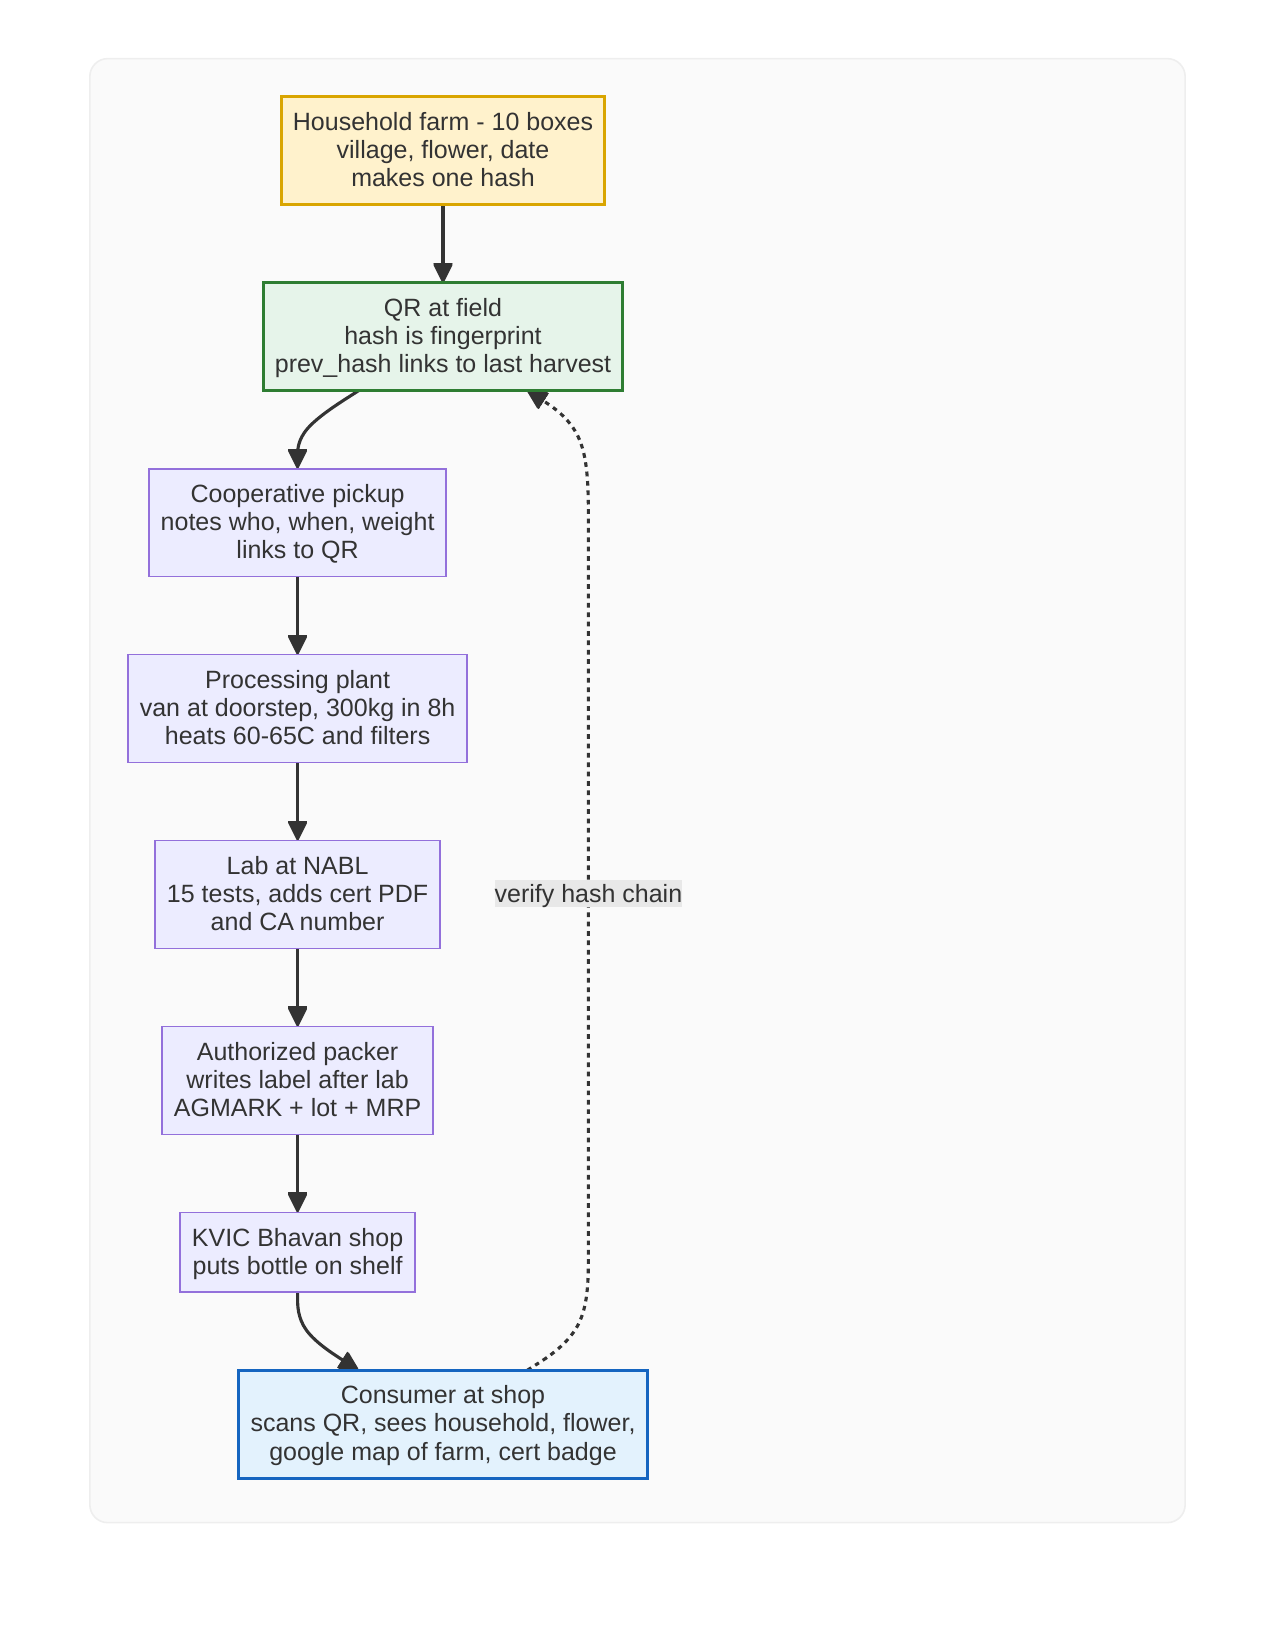
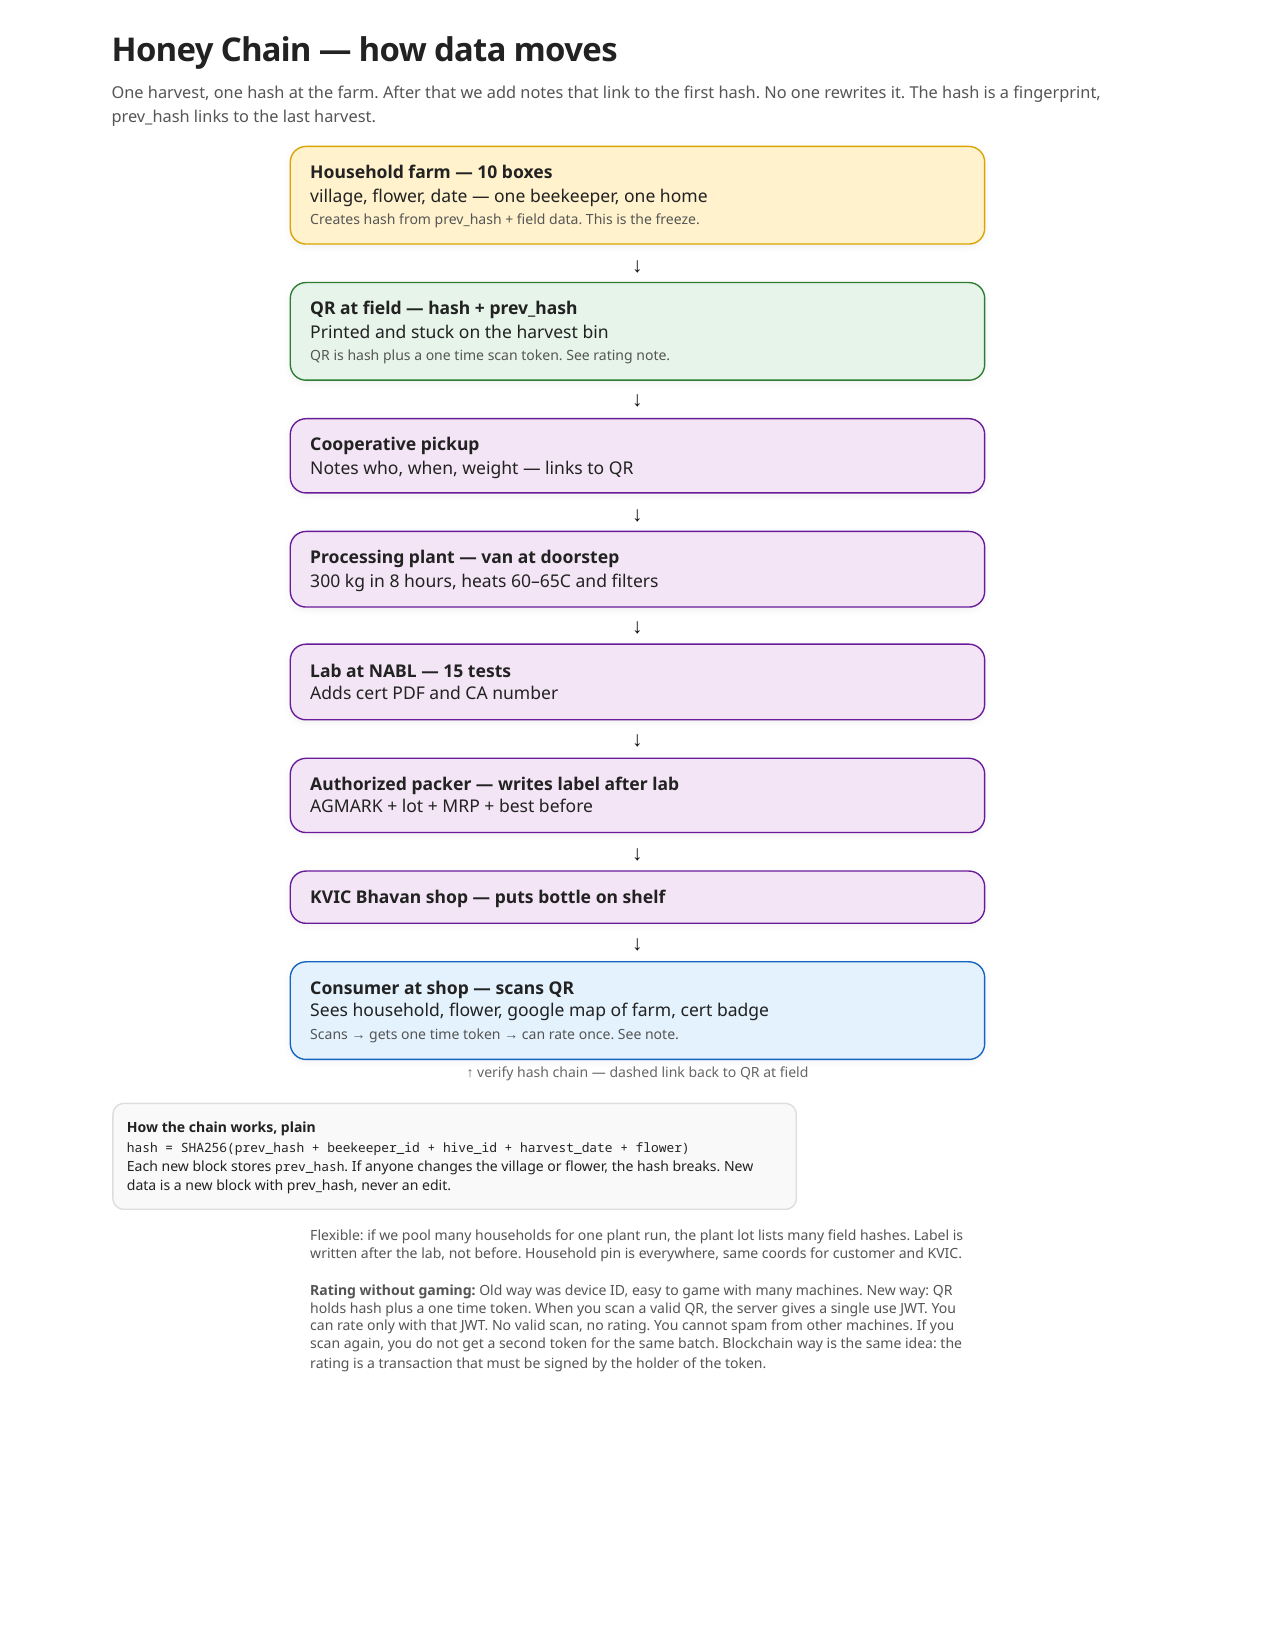
dataflow: rebuild as readable vertical HTML/CSS, larger font, single page, rating token note

Changed region(s): [[0.0918, 0.0, 0.7953, 0.8964], [0.5506, 0.5873, 0.6118, 0.6182], [0.7953, 0.0309, 0.8259, 0.0618]]

diff --git a/dataflow.html b/dataflow.html
@@ -1,48 +1,51 @@
 <!doctype html><html><head><meta charset="utf-8"><title>Data flow - Honey Chain</title>
-<script src="https://cdn.jsdelivr.net/npm/mermaid@10/dist/mermaid.min.js"></script>
-<style>body{font-family:system-ui,Arial,sans-serif;max-width:1100px;margin:0 auto;padding:20px;background:#fff;color:#222}
-h1{margin:0 0 8px} .note{color:#666;font-size:13px}
-.mermaid{border:1px solid #eee;border-radius:12px;padding:16px;background:#fafafa}
+<style>
+@page{size: 900px 1200px; margin: 0;}
+body{font-family:system-ui,Arial,sans-serif;max-width:900px;margin:0 auto;padding:24px;background:#fff;color:#222;zoom:0.85}
+h1{font-size:28px;margin:0 0 8px;letter-spacing:-0.5px}
+.sub{color:#555;font-size:14px;margin:0 0 16px;line-height:1.4}
+.flow{display:flex;flex-direction:column;align-items:center;gap:0}
+.node{width:560px;border:2px solid #333;border-radius:14px;padding:12px 16px;background:#fff;font-size:15px;line-height:1.3;box-shadow:0 2px 6px rgba(0,0,0,0.05)}
+.node.yellow{background:#fff2cc;border-color:#d9a500}
+.node.green{background:#e6f4ea;border-color:#2e7d32}
+.node.purple{background:#f3e5f5;border-color:#6a1b9a}
+.node.blue{background:#e3f2fd;border-color:#1565c0}
+.node .small{color:#555;font-size:12px;margin-top:4px}
+.arrow{font-size:18px;color:#111;margin:4px 0}
+.dots{font-size:12px;color:#666;margin:3px 0}
+.chain{margin-top:14px;padding:12px;background:#f9f9f9;border:1px solid #ddd;border-radius:10px;font-size:12px;width:560px}
+.chain code{font-size:11px}
+.note{width:560px;margin:14px auto 0;color:#555;font-size:12px;line-height:1.3}
 </style></head><body>
-<h1>Honey Chain — how data moves, with one hash link</h1>
-<p class="note">Less jargon: one harvest, one hash, one QR at the farm. After that we add notes that link to the first hash. KVIC network adds to it, no one rewrites it.</p>
-<pre class="mermaid">
-flowchart TD
-  A[Household farm - 10 boxes
-  village, flower, date
-  makes one hash] --> B[QR at field
-  hash is fingerprint
-  prev_hash links to last harvest]
+<h1>Honey Chain — how data moves</h1>
+<p class="sub">One harvest, one hash at the farm. After that we add notes that link to the first hash. No one rewrites it. The hash is a fingerprint, prev_hash links to the last harvest.</p>
 
-  B --> C[Cooperative pickup
-  notes who, when, weight
-  links to QR]
+<div class="flow">
+  <div class="node yellow"><strong>Household farm — 10 boxes</strong><br>village, flower, date — one beekeeper, one home<br><span class="small">Creates hash from prev_hash + field data. This is the freeze.</span></div>
+  <div class="arrow">↓</div>
+  <div class="node green"><strong>QR at field — hash + prev_hash</strong><br>Printed and stuck on the harvest bin<br><span class="small">QR is hash plus a one time scan token. See rating note.</span></div>
+  <div class="arrow">↓</div>
+  <div class="node purple"><strong>Cooperative pickup</strong><br>Notes who, when, weight — links to QR</div>
+  <div class="arrow">↓</div>
+  <div class="node purple"><strong>Processing plant — van at doorstep</strong><br>300 kg in 8 hours, heats 60–65C and filters</div>
+  <div class="arrow">↓</div>
+  <div class="node purple"><strong>Lab at NABL — 15 tests</strong><br>Adds cert PDF and CA number</div>
+  <div class="arrow">↓</div>
+  <div class="node purple"><strong>Authorized packer — writes label after lab</strong><br>AGMARK + lot + MRP + best before</div>
+  <div class="arrow">↓</div>
+  <div class="node purple"><strong>KVIC Bhavan shop — puts bottle on shelf</strong></div>
+  <div class="arrow">↓</div>
+  <div class="node blue"><strong>Consumer at shop — scans QR</strong><br>Sees household, flower, google map of farm, cert badge<br><span class="small">Scans → gets one time token → can rate once. See note.</span></div>
+  <div class="dots">↑ verify hash chain — dashed link back to QR at field</div>
+</div>
 
-  C --> D[Processing plant
-  van at doorstep, 300kg in 8h
-  heats 60-65C and filters]
+<div class="chain">
+<strong>How the chain works, plain</strong><br>
+<code>hash = SHA256(prev_hash + beekeeper_id + hive_id + harvest_date + flower)</code><br>
+Each new block stores <code>prev_hash</code>. If anyone changes the village or flower, the hash breaks. New data is a new block with prev_hash, never an edit.
+</div>
 
-  D --> E[Lab at NABL
-  15 tests, adds cert PDF
-  and CA number]
+<p class="note">Flexible: if we pool many households for one plant run, the plant lot lists many field hashes. Label is written after the lab, not before. Household pin is everywhere, same coords for customer and KVIC.<br><br>
+<strong>Rating without gaming:</strong> Old way was device ID, easy to game with many machines. New way: QR holds hash plus a one time token. When you scan a valid QR, the server gives a single use JWT. You can rate only with that JWT. No valid scan, no rating. You cannot spam from other machines. If you scan again, you do not get a second token for the same batch. Blockchain way is the same idea: the rating is a transaction that must be signed by the holder of the token.</p>
 
-  E --> F[Authorized packer
-  writes label after lab
-  AGMARK + lot + MRP]
-
-  F --> G[KVIC Bhavan shop
-  puts bottle on shelf]
-
-  G --> H[Consumer at shop
-  scans QR, sees household, flower,
-  google map of farm, cert badge]
-
-  H -. verify hash chain .-> B
-
-  style A fill:#fff2cc,stroke:#d9a500,stroke-width:2px
-  style B fill:#e6f4ea,stroke:#2e7d32,stroke-width:2px
-  style H fill:#e3f2fd,stroke:#1565c0,stroke-width:2px
-</pre>
-<p class="note">Flexible: if we pool many households for one plant run, the plant lot lists many field hashes. Label is written after the lab, not before. Household pin is everywhere, same coords for customer and KVIC.</p>
-<script>mermaid.initialize({startOnLoad:true})</script>
 </body></html>

diff --git a/AGENTS.md b/AGENTS.md
@@ -45,6 +45,9 @@ Goals: stop counterfeit honey, add QR verification, link rural beekeepers to mar
 - Wise sage concerns 2026-08-28: user asks sources of data and who aggregates, who fills and when label slapped, per household separation in packing, data freeze vs later mods. Will research aggregation via SFURTI IA/TA, packer label timing after lab, pooling vs per household, append-only freeze.
 - Vision persisted 2026-08-28: created vision.md with edge handoff, household unit, KVIC cooperation flow, per household freeze plus pooled lot, stack hyper optimal stdlib http.server + sqlite now postgres + litestream + S3 + MQTT + 3 small AI models, google map embed, consult before broad decisions per user.
 - Visuals 2026-08-28: user requested data flow with blockchain reference and UI/UX diagram before execution. Created dataflow.html and uiux.html with Mermaid, rendered via agent-browser pdf to png. First render cluttered with overlapping arrows and split pages, per SEE before claiming done visually inspected both PNGs and fixed to clean vertical flow and 4-column grid. Final ./dataflow.png 133K and ./uiux.png 124K are single page readable, less jargon, hash is fingerprint, prev_hash links.
+- Realpath 2026-08-28: user asked realpath of visuals. Dataflow /home/RatAnon/AI-MultiAgent-Land/beekeeper/dataflow.png, UI/UX /home/RatAnon/AI-MultiAgent-Land/beekeeper/uiux.png, HTML same dir, PDFs /tmp/opencode/dataflow.pdf and /tmp/opencode/uiux_final.pdf.
+- Dataflow readability 2026-08-28: user says horizontal too small, wrong form. Will rebuild with larger font HTML/CSS vertical flow, hash as fingerprint bigger, readable at 100% zoom.
+- Rating anti-gaming 2026-08-28: user notes rating via machine IDs can be gamed, should be authed via scan itself, maybe blockchain method. Will propose QR-bound one-time token via hash chain, single-use JWT after valid QR scan, no device hash.
 
 ## Policy in practice
 - Update this file first when you learn anything that would save time next run. No need to ask.
